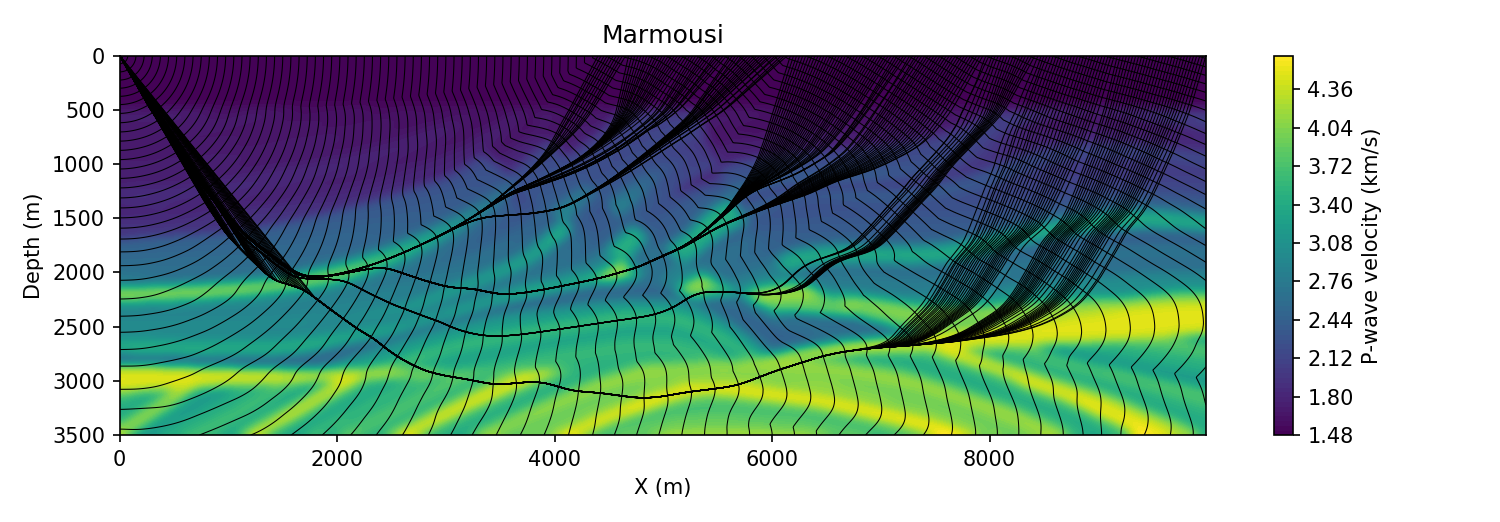
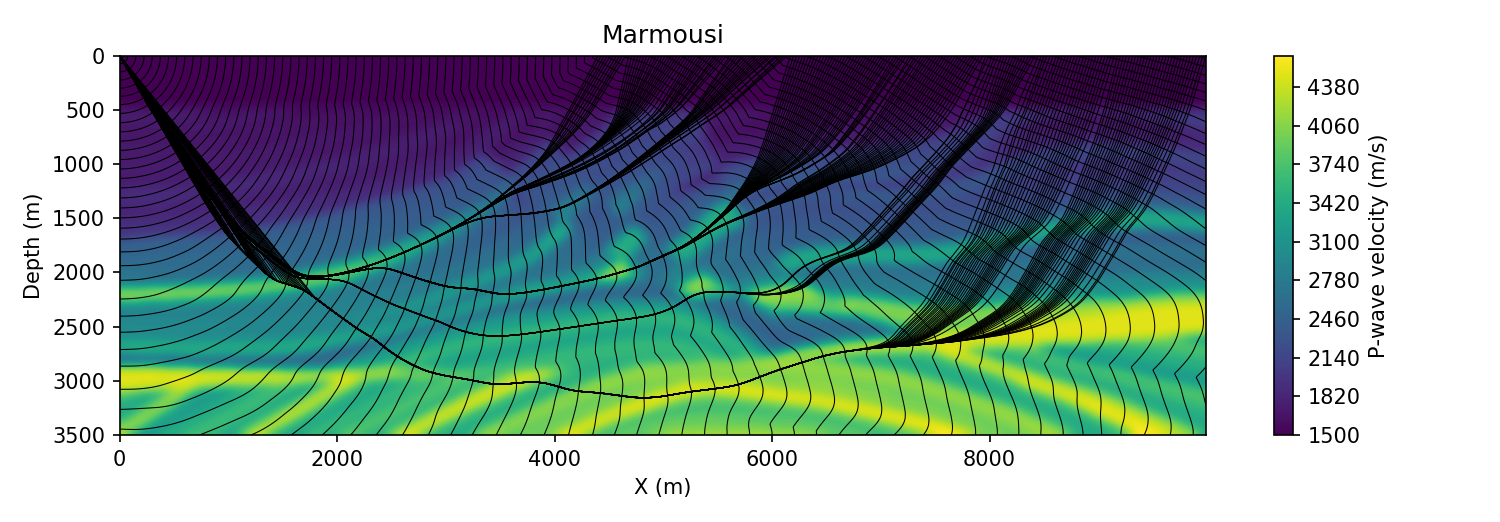
update example_plot.py

diff --git a/examples/example_plot.py b/examples/example_plot.py
@@ -51,7 +51,7 @@ if __name__ == "__main__":
     
     ax1.set_title("Marmousi")
     cb = fig.colorbar(cax)
-    cb.set_label("P-wave velocity (km/s)")
+    cb.set_label("P-wave velocity (m/s)")
     
     fig.tight_layout()
     plt.show()
